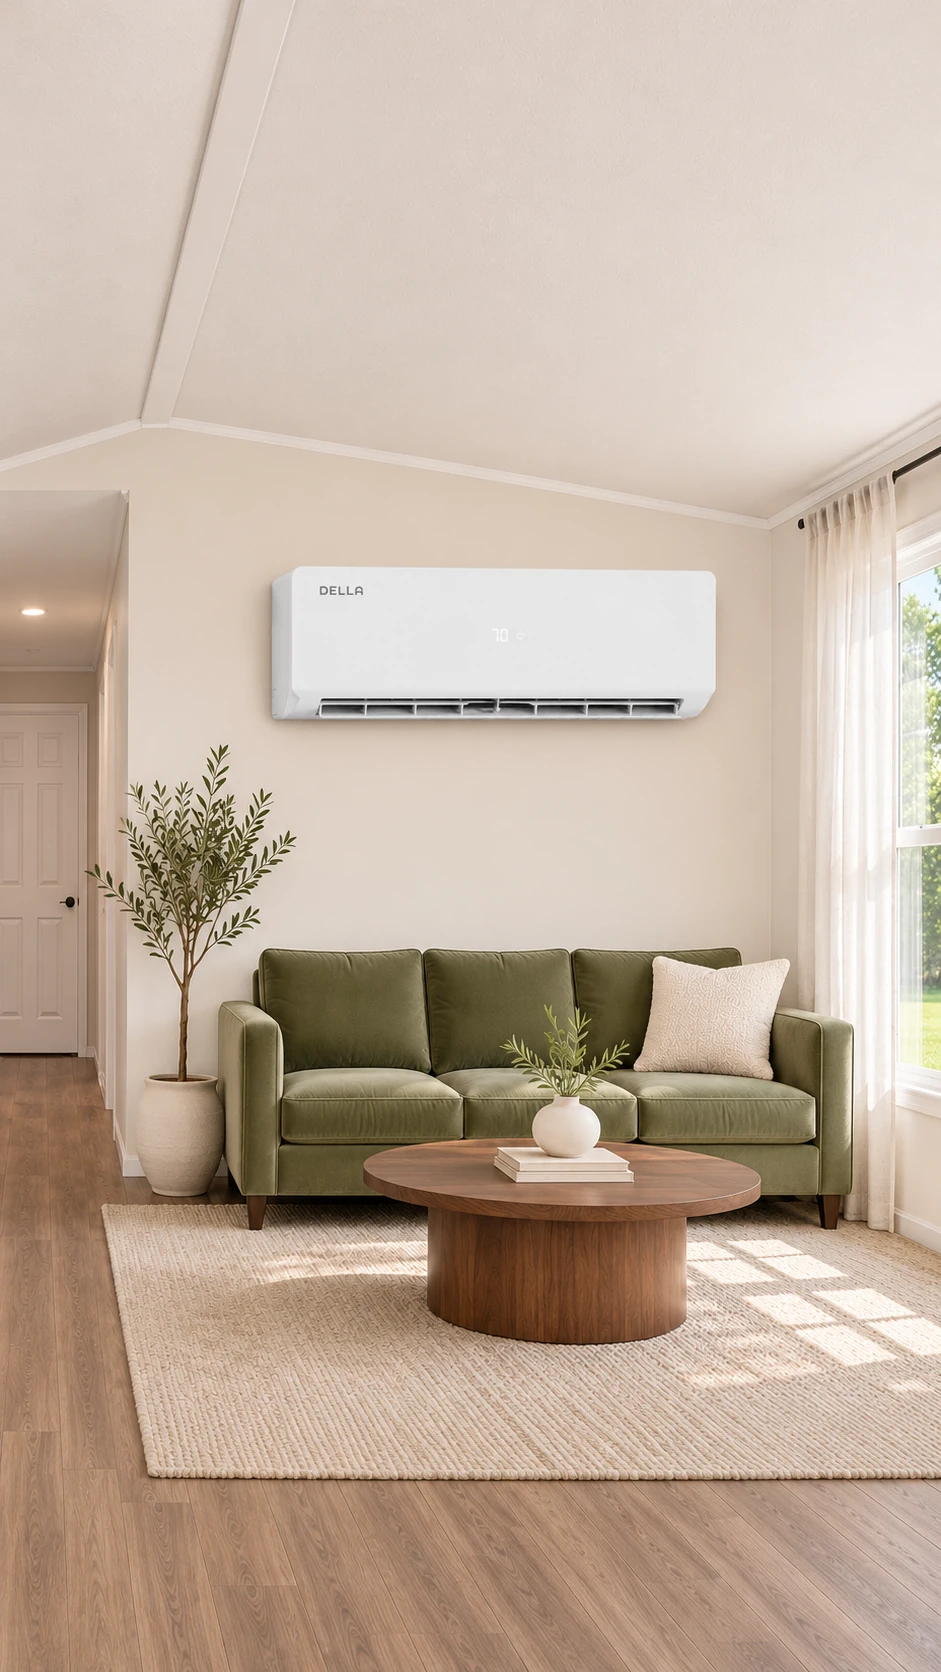
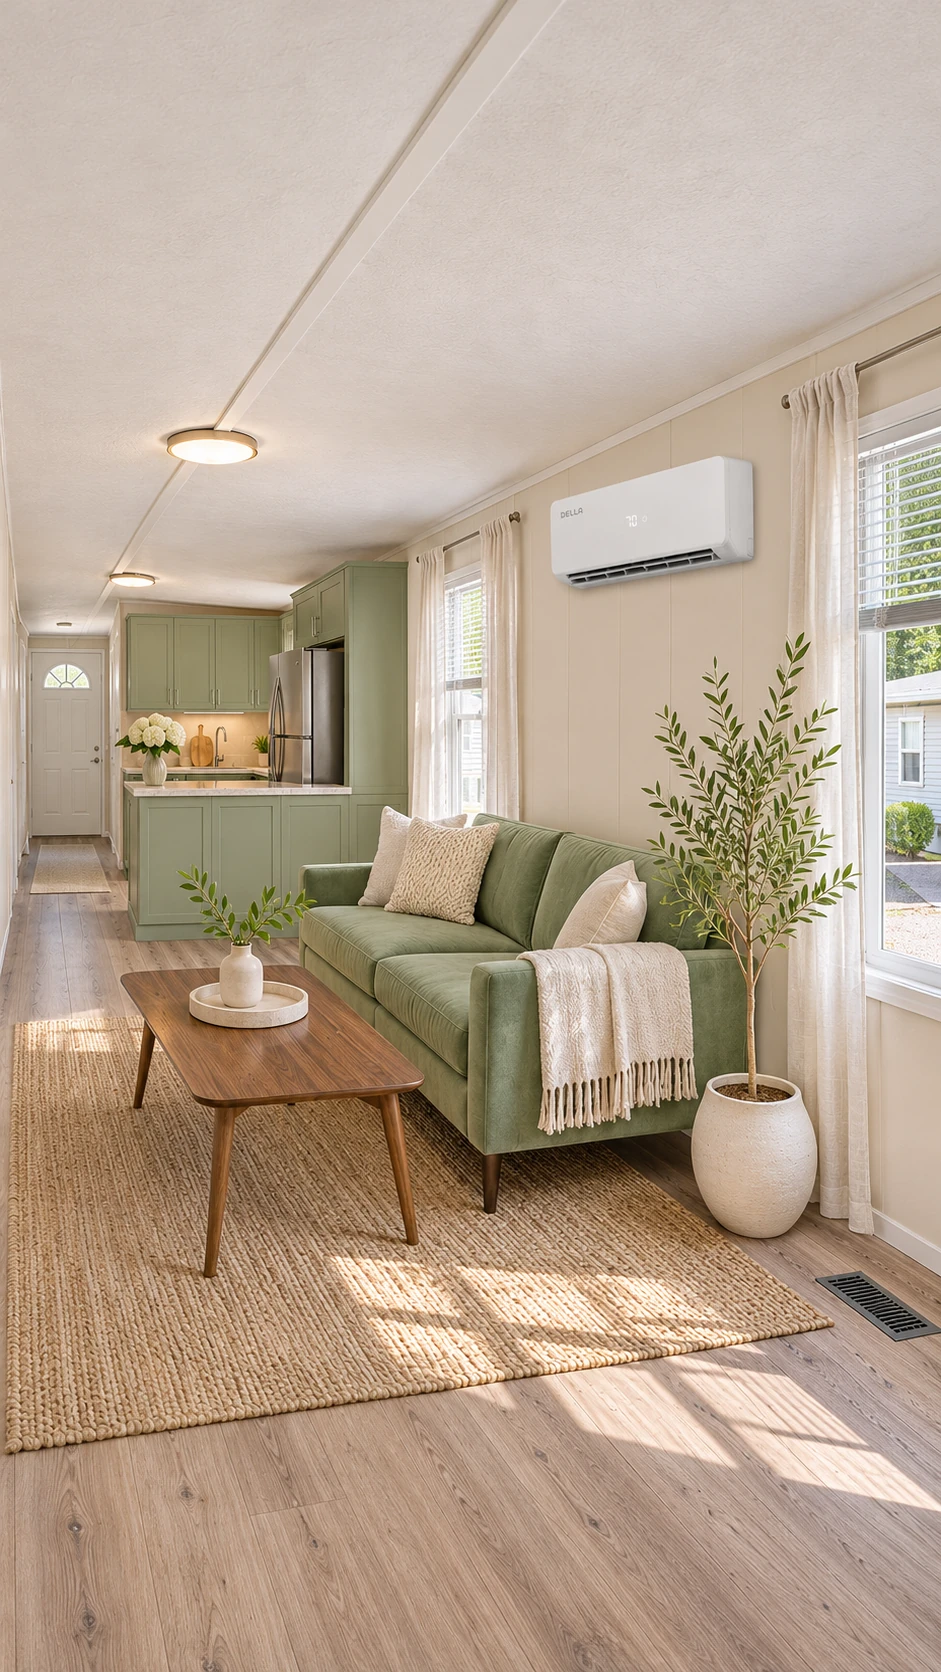
Mobile Home: real single-wide hero at true unit scale, photo plans for the 60-80 ft comparison

diff --git a/Mini Split for Mobile Home/mini-split-for-mobile-home.html b/Mini Split for Mobile Home/mini-split-for-mobile-home.html
@@ -472,19 +472,14 @@ html.js .zone-sidebar.needs-js{display:block}
 .long-wide .sub-head{margin-bottom:28px}
 .plan-grid{display:grid;grid-template-columns:repeat(2,minmax(0,1fr));gap:24px}
 .plan-card{overflow:hidden;border-radius:var(--r-lg);background:var(--sand-100)}
-.plan-art{padding:30px 30px 10px}
-.plan-art svg{display:block;width:100%;height:auto}
+.plan-art{padding:26px 26px 6px}
+.plan-media{margin:0;overflow:hidden;border-radius:var(--r-md);background:#e5e5e8}
+.plan-media img{display:block;width:100%;height:auto}
 .plan-dim{display:flex;align-items:center;gap:12px;margin-bottom:12px;color:var(--ink-600);font-size:14px;letter-spacing:.4px}
 .plan-dim::before,.plan-dim::after{content:"";flex:1;height:1px;background:var(--ink-400,#b9b6ad)}
 .plan-body{padding:14px 30px 30px}
 .plan-body h4{margin:0 0 8px;font:500 24px/1.2 var(--serif);letter-spacing:-.3px;color:var(--navy-900)}
 .plan-body p{color:var(--ink-600);font-size:16.5px;line-height:1.6}
-.plan-legend{display:flex;flex-wrap:wrap;gap:8px 22px;margin-top:20px;color:var(--ink-600);font-size:14px}
-.plan-legend span{display:inline-flex;align-items:center;gap:8px}
-.plan-legend i{display:inline-block}
-.lg-head{width:22px;height:8px;border-radius:2px;background:var(--navy-800)}
-.lg-odu{width:14px;height:14px;border-radius:3px;background:var(--blue-500)}
-.lg-line{width:22px;border-top:2px dashed var(--blue-500)}
 
 /* systems: zone menu + product grid (same grammar as the Whole House page) */
 html.js .shop-layout{display:grid;grid-template-columns:240px minmax(0,1fr);gap:40px;align-items:start}
@@ -589,7 +584,7 @@ html.js .shop-layout{display:grid;grid-template-columns:240px minmax(0,1fr);gap:
   <section class="hero" aria-labelledby="heroTitle">
     <picture class="hero-media">
       <source media="(max-width: 640px)" srcset="assets/v5/hero-m.webp" width="941" height="1672">
-      <img src="assets/v5/hero.webp" alt="Single-wide manufactured home living room with a DELLA wall-mounted mini split above the sofa and a hallway leading to a closed bedroom door" width="1672" height="941" fetchpriority="high">
+      <img src="assets/v5/hero.webp" alt="Long, narrow single-wide manufactured home living room with a DELLA wall-mounted mini split above the sofa and the kitchen and front door at the far end" width="1672" height="941" fetchpriority="high">
     </picture>
     <div class="container">
       <div class="hero-copy">
@@ -687,16 +682,7 @@ html.js .shop-layout{display:grid;grid-template-columns:240px minmax(0,1fr);gap:
           <article class="plan-card reveal">
             <div class="plan-art">
               <div class="plan-dim">60–80 ft</div>
-              <svg viewBox="0 0 560 150" role="img" aria-label="Plan of a long single-wide with one outdoor unit at the middle feeding indoor units in the living area and both end bedrooms">
-                <rect x="4" y="4" width="552" height="92" rx="6" fill="#fff" stroke="#0E1952" stroke-width="2.5"/>
-                <path d="M128 4v34M128 62v34M190 4v92M370 4v34M370 62v34" stroke="#0E1952" stroke-width="2" fill="none"/>
-                <rect x="40" y="10" width="54" height="11" rx="2.5" fill="#0E1952"/>
-                <rect x="252" y="10" width="54" height="11" rx="2.5" fill="#0E1952"/>
-                <rect x="440" y="10" width="54" height="11" rx="2.5" fill="#0E1952"/>
-                <path d="M67 21v58h400M467 21v58M279 21v96" stroke="#5884E7" stroke-width="2" stroke-dasharray="6 5" fill="none"/>
-                <rect x="259" y="114" width="40" height="32" rx="5" fill="#5884E7"/>
-                <circle cx="279" cy="130" r="9" fill="none" stroke="#fff" stroke-width="2"/>
-              </svg>
+              <figure class="plan-media"><img src="assets/v5/plan-one.webp" alt="Long single-wide manufactured home cutaway with one DELLA multi-zone outdoor unit at the middle and line-set covers running to indoor units at both ends" width="1672" height="600" loading="lazy"></figure>
             </div>
             <div class="plan-body">
               <h4>One Multi-Zone Condenser</h4>
@@ -706,17 +692,7 @@ html.js .shop-layout{display:grid;grid-template-columns:240px minmax(0,1fr);gap:
           <article class="plan-card reveal" data-d="1">
             <div class="plan-art">
               <div class="plan-dim">60–80 ft</div>
-              <svg viewBox="0 0 560 150" role="img" aria-label="Plan of a long single-wide with two outdoor units, one near each end, each feeding the indoor unit closest to it">
-                <rect x="4" y="4" width="552" height="92" rx="6" fill="#fff" stroke="#0E1952" stroke-width="2.5"/>
-                <path d="M128 4v34M128 62v34M190 4v92M370 4v34M370 62v34" stroke="#0E1952" stroke-width="2" fill="none"/>
-                <rect x="40" y="10" width="54" height="11" rx="2.5" fill="#0E1952"/>
-                <rect x="440" y="10" width="54" height="11" rx="2.5" fill="#0E1952"/>
-                <path d="M67 21v96M467 21v96" stroke="#5884E7" stroke-width="2" stroke-dasharray="6 5" fill="none"/>
-                <rect x="47" y="114" width="40" height="32" rx="5" fill="#5884E7"/>
-                <circle cx="67" cy="130" r="9" fill="none" stroke="#fff" stroke-width="2"/>
-                <rect x="447" y="114" width="40" height="32" rx="5" fill="#5884E7"/>
-                <circle cx="467" cy="130" r="9" fill="none" stroke="#fff" stroke-width="2"/>
-              </svg>
+              <figure class="plan-media"><img src="assets/v5/plan-two.webp" alt="The same single-wide with two DELLA single-zone outdoor units, one near each end, each piped into the room closest to it" width="1672" height="600" loading="lazy"></figure>
             </div>
             <div class="plan-body">
               <h4>Two Single-Zone Units</h4>
@@ -724,7 +700,6 @@ html.js .shop-layout{display:grid;grid-template-columns:240px minmax(0,1fr);gap:
             </div>
           </article>
         </div>
-        <div class="plan-legend" aria-hidden="true"><span><i class="lg-head"></i>Indoor wall unit</span><span><i class="lg-odu"></i>Outdoor unit on ground pad</span><span><i class="lg-line"></i>Line set</span></div>
       </div>
     </div>
   </section>
